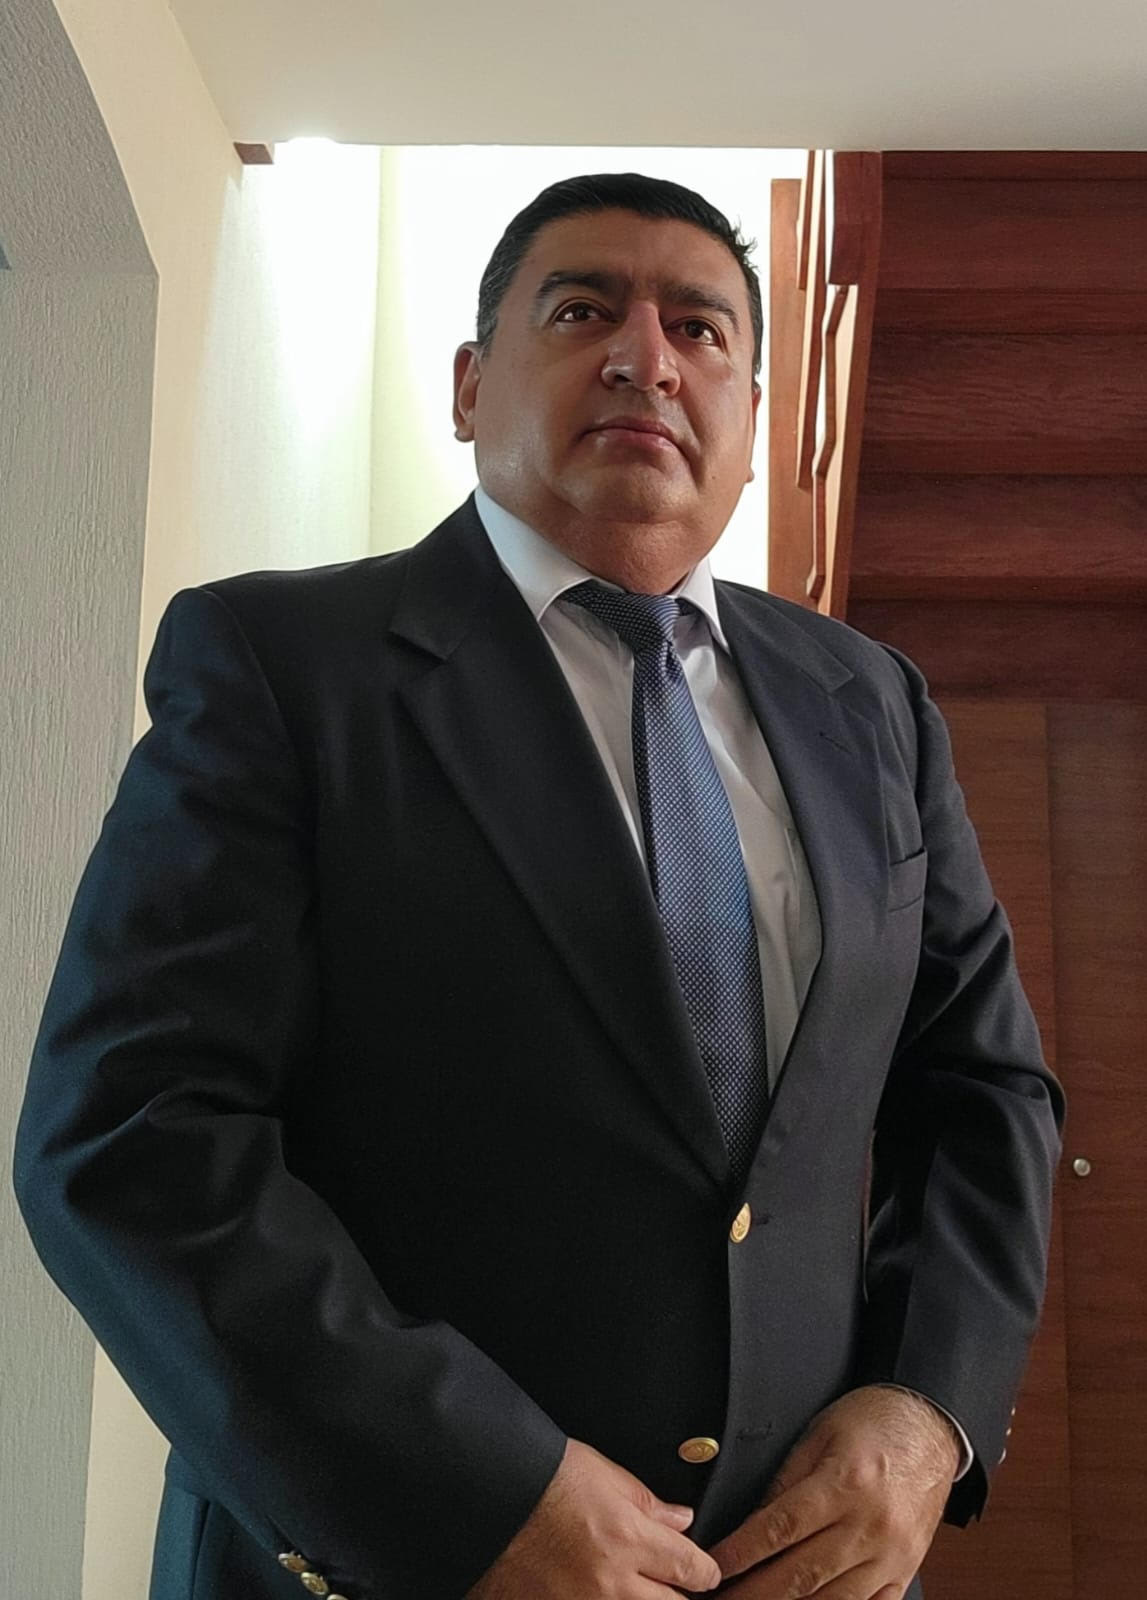
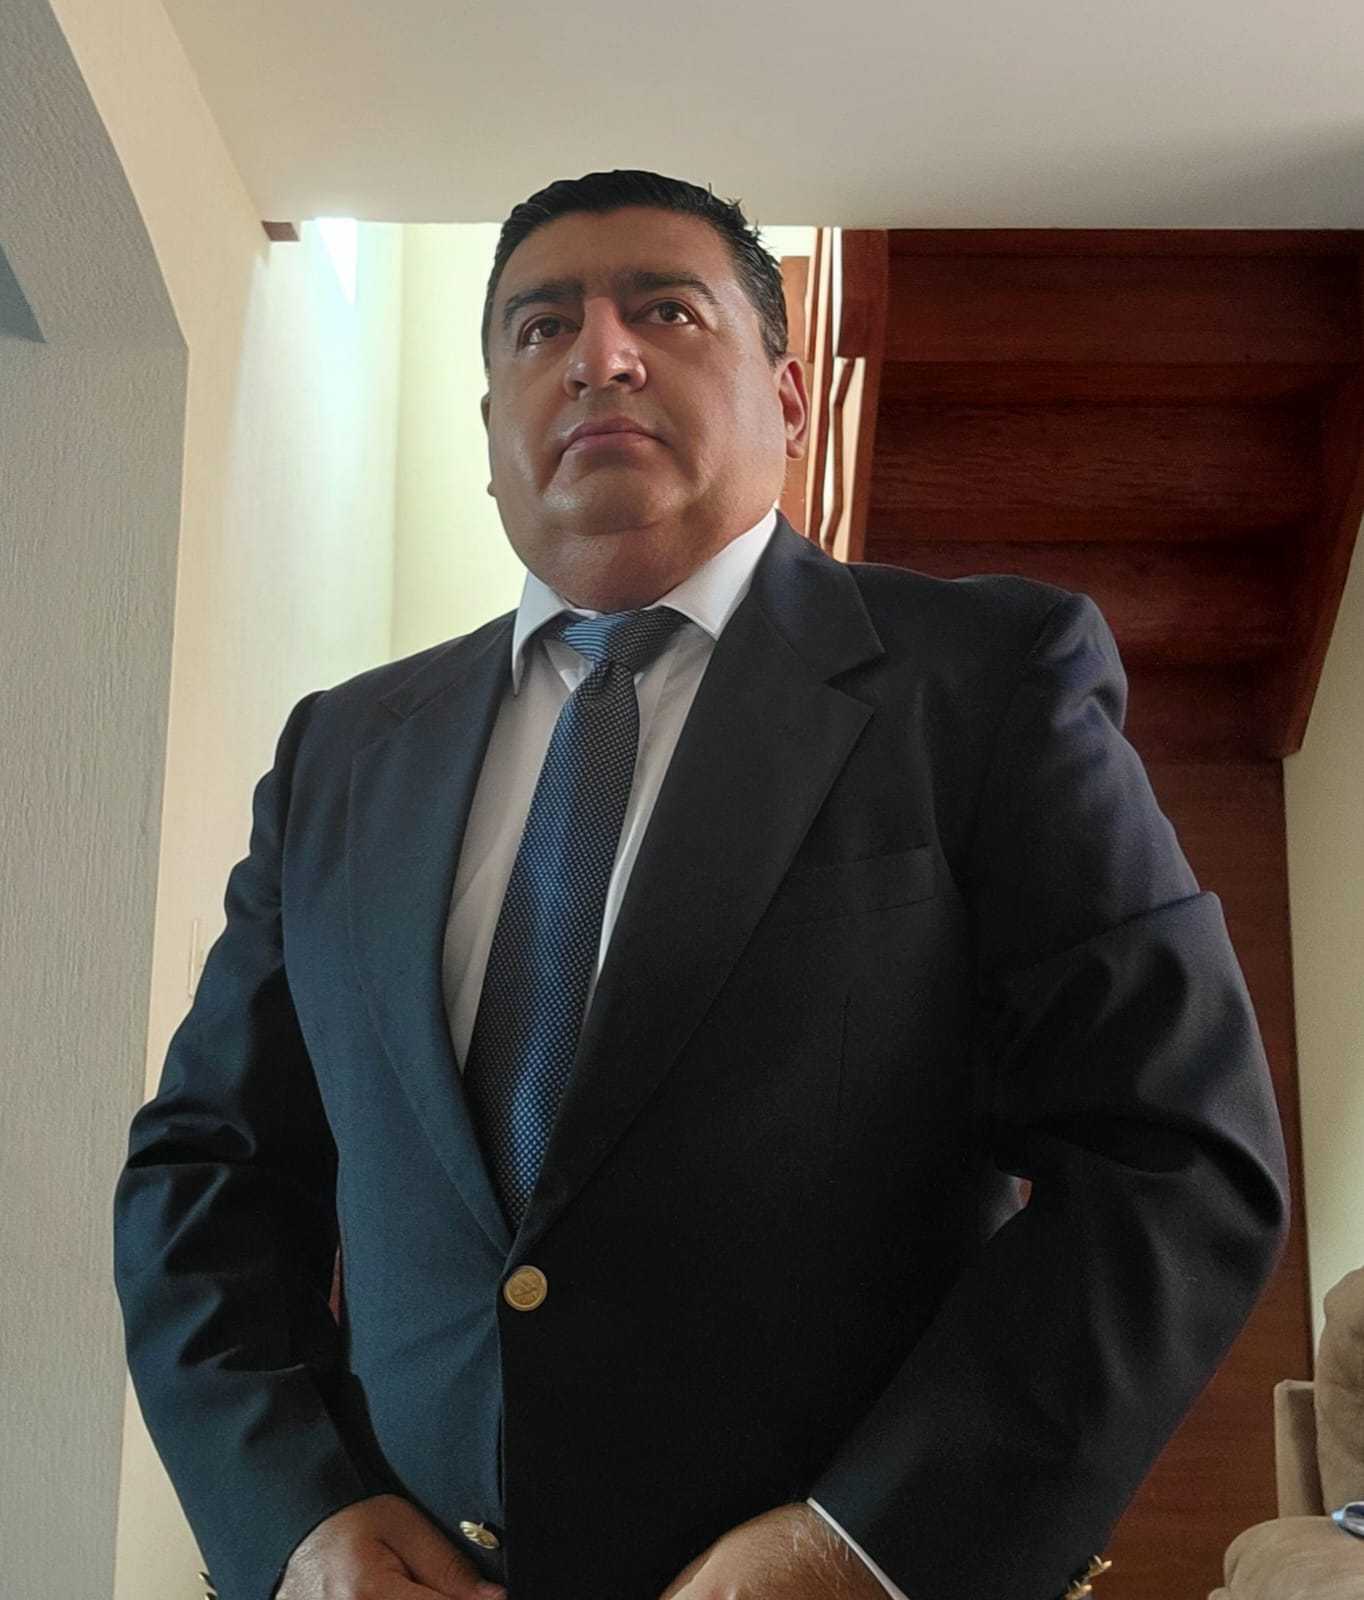
FINAL CHANGES.

diff --git a/src/components/layout/Footer.tsx b/src/components/layout/Footer.tsx
@@ -1,199 +1,40 @@
 "use client";
 
-import React, { useState } from 'react';
+import React from 'react';
 import Link from 'next/link';
-import { FaPhone, FaEnvelope, FaMapMarkerAlt, FaLinkedin, FaFacebook, FaTwitter, FaArrowRight } from 'react-icons/fa';
-
-// Define the service options for the dropdown
-const serviceOptions = [
-    { value: "", label: "Seleccione un servicio" },
-    { value: "auditoria-financiera", label: "Auditoría Financiera" },
-    { value: "auditoria-fiscal", label: "Auditoría Fiscal" },
-    { value: "auditoria-forense", label: "Auditoría Forense" },
-    { value: "auditoria-lav", label: "Auditoría para Cumplimiento de LAV" },
-    { value: "precios-transferencia", label: "Estudios de Precios de Transferencia" },
-    { value: "consultoria", label: "Asesoría y Consultoría Empresarial" },
-    { value: "outsourcing", label: "Outsourcing Contable" },
-    { value: "otros", label: "Otros Servicios" }
-];
-
-// Define contact reasons
-const contactReasons = [
-    { value: "", label: "Seleccione un motivo" },
-    { value: "cotizacion", label: "Solicitar Cotización" },
-    { value: "informacion", label: "Información General" },
-    { value: "reunion", label: "Programar Reunión" },
-    { value: "consulta", label: "Consulta Técnica" },
-    { value: "otro", label: "Otro Motivo" }
-];
+import { FaPhone, FaEnvelope, FaMapMarkerAlt, FaArrowRight } from 'react-icons/fa';
 
 const Footer: React.FC = () => {
-    const [email, setEmail] = useState('');
-    const [name, setName] = useState('');
-    const [phone, setPhone] = useState('');
-    const [service, setService] = useState('');
-    const [contactReason, setContactReason] = useState('');
-    const [message, setMessage] = useState('');
-    const [formSubmitted, setFormSubmitted] = useState(false);
-    const [isSubmitting, setIsSubmitting] = useState(false);
-    const [submitError, setSubmitError] = useState('');
-
-    const handleSubmit = async (e: React.FormEvent) => {
-        e.preventDefault();
-        setIsSubmitting(true);
-        setSubmitError('');
-
-        try {
-            const response = await fetch('/api/contact', {
-                method: 'POST',
-                headers: {
-                    'Content-Type': 'application/json',
-                },
-                body: JSON.stringify({
-                    name,
-                    email,
-                    phone,
-                    service,
-                    contactReason,
-                    message,
-                }),
-            });
-
-            if (response.ok) {
-                setFormSubmitted(true);
-                // Reset form after successful submission
-                setName('');
-                setEmail('');
-                setPhone('');
-                setService('');
-                setContactReason('');
-                setMessage('');
-
-                // Reset submission status after 5 seconds
-                setTimeout(() => {
-                    setFormSubmitted(false);
-                }, 5000);
-            } else {
-                const errorData = await response.json();
-                setSubmitError(errorData.error || 'Error al enviar el formulario');
-            }
-        } catch {
-            setSubmitError('Error de conexión. Por favor, intente nuevamente.');
-        } finally {
-            setIsSubmitting(false);
-        }
-    };
 
     return (
         <footer className="w-full">
             {/* Top Section - Contact Form */}
             <div id="contact" className="bg-gradient-to-r from-gray-800 to-gray-900 text-white py-12">
                 <div className="container mx-auto px-4">
-                    <div className="flex flex-col md:flex-row md:items-start">
-                        <div className="md:w-1/2 mb-8 md:mb-0 pr-0 md:pr-8">
-                            <h2 className="text-3xl font-bold mb-4">Contáctenos ahora</h2>
-                            <p className="text-gray-300 mb-4">
-                                Complete el formulario para solicitar una cotización o programar una consulta con nuestros expertos.
-                            </p>
-                            <ul className="space-y-3 mt-6">
-                                <li className="flex items-center">
-                                    <FaPhone className="text-gray-400 mr-3" size={16} />
-                                    <span className="text-gray-300">2263-3115 / 2263-3263</span>
-                                </li>
-                                <li className="flex items-center">
-                                    <FaEnvelope className="text-gray-400 mr-3" size={16} />
-                                    <a href="mailto:info@acp-audicon.com" className="text-gray-300 hover:text-white">
-                                        info@acp-audicon.com
-                                    </a>
-                                </li>
-                            </ul>
+                    <div className="flex flex-col items-center text-center">
+                        <h2 className="text-3xl font-bold mb-4">Contáctenos ahora</h2>
+                        <p className="text-gray-300 mb-6 max-w-2xl">
+                            Complete el formulario para solicitar una cotización o programar una consulta con nuestros expertos.
+                        </p>
+                        <div className="space-y-3 mb-8">
+                            <div className="flex items-center justify-center">
+                                <FaPhone className="text-gray-400 mr-3" size={16} />
+                                <span className="text-gray-300">2263-3115 / 2263-3263</span>
+                            </div>
+                            <div className="flex items-center justify-center">
+                                <FaEnvelope className="text-gray-400 mr-3" size={16} />
+                                <a href="mailto:info@acp-audicon.com" className="text-gray-300 hover:text-white">
+                                    info@acp-audicon.com
+                                </a>
+                            </div>
                         </div>
-
-                        <div className="md:w-1/2">
-                            {formSubmitted ? (
-                                <div className="bg-green-600 text-white p-4 rounded">
-                                    ¡Gracias por contactarnos! Hemos recibido su mensaje y nos comunicaremos con usted pronto.
-                                </div>
-                            ) : (
-                                <>
-                                    {submitError && (
-                                        <div className="bg-red-600 text-white p-4 rounded mb-4">
-                                            {submitError}
-                                        </div>
-                                    )}
-                                <form onSubmit={handleSubmit} className="flex flex-col gap-4">
-                                    <div className="flex flex-col md:flex-row gap-4">
-                                        <input
-                                            type="text"
-                                            placeholder="Nombre completo *"
-                                            className="md:w-1/2 p-3 bg-gray-700 text-white rounded border border-gray-600 focus:outline-none focus:border-white"
-                                            value={name}
-                                            onChange={(e) => setName(e.target.value)}
-                                            required
-                                        />
-                                        <input
-                                            type="email"
-                                            placeholder="Correo electrónico *"
-                                            className="md:w-1/2 p-3 bg-gray-700 text-white rounded border border-gray-600 focus:outline-none focus:border-white"
-                                            value={email}
-                                            onChange={(e) => setEmail(e.target.value)}
-                                            required
-                                        />
-                                    </div>
-                                    <div className="flex flex-col md:flex-row gap-4">
-                                        <input
-                                            type="tel"
-                                            placeholder="Teléfono"
-                                            className="md:w-1/2 p-3 bg-gray-700 text-white rounded border border-gray-600 focus:outline-none focus:border-white"
-                                            value={phone}
-                                            onChange={(e) => setPhone(e.target.value)}
-                                        />
-                                        <select
-                                            className="md:w-1/2 p-3 bg-gray-700 text-white rounded border border-gray-600 focus:outline-none focus:border-white"
-                                            value={contactReason}
-                                            onChange={(e) => setContactReason(e.target.value)}
-                                            required
-                                        >
-                                            {contactReasons.map((reason) => (
-                                                <option key={reason.value} value={reason.value}>
-                                                    {reason.label}
-                                                </option>
-                                            ))}
-                                        </select>
-                                    </div>
-                                    <select
-                                        className="w-full p-3 bg-gray-700 text-white rounded border border-gray-600 focus:outline-none focus:border-white"
-                                        value={service}
-                                        onChange={(e) => setService(e.target.value)}
-                                        required
-                                    >
-                                        {serviceOptions.map((option) => (
-                                            <option key={option.value} value={option.value}>
-                                                {option.label}
-                                            </option>
-                                        ))}
-                                    </select>
-                                    <textarea
-                                        placeholder="Mensaje (opcional)"
-                                        className="w-full p-3 bg-gray-700 text-white rounded border border-gray-600 focus:outline-none focus:border-white"
-                                        rows={3}
-                                        value={message}
-                                        onChange={(e) => setMessage(e.target.value)}
-                                    ></textarea>
-                                    <div className="w-full flex items-center">
-                                        <button
-                                            type="submit"
-                                            disabled={isSubmitting}
-                                            className="flex items-center justify-center px-6 py-3 bg-white hover:bg-gray-200 disabled:bg-gray-400 disabled:cursor-not-allowed text-gray-900 font-medium rounded transition-colors duration-300"
-                                        >
-                                            {isSubmitting ? 'Enviando...' : 'Contactar'}
-                                            {!isSubmitting && <FaArrowRight className="ml-2" />}
-                                        </button>
-                                    </div>
-                                </form>
-                                </>
-                            )}
-                        </div>
+                        <a 
+                            href="mailto:info@acp-audicon.com"
+                            className="flex items-center justify-center px-6 py-3 bg-white hover:bg-gray-200 text-gray-900 font-medium rounded transition-colors duration-300"
+                        >
+                            Contactar
+                            <FaArrowRight className="ml-2" />
+                        </a>
                     </div>
                 </div>
             </div>
@@ -271,18 +112,7 @@ const Footer: React.FC = () => {
                                         Noticias y Publicaciones
                                     </Link>
                                 </li>
-                                <li>
-                                    <span className="text-gray-400 cursor-not-allowed">
-                                        Preguntas Frecuentes
-                                    </span>
-                                    <span className="text-xs text-gray-400 block">(Próximamente)</span>
-                                </li>
-                                <li>
-                                    <span className="text-gray-400 cursor-not-allowed">
-                                        Glosario
-                                    </span>
-                                    <span className="text-xs text-gray-400 block">(Próximamente)</span>
-                                </li>
+
                             </ul>
                         </div>
 
@@ -333,17 +163,7 @@ const Footer: React.FC = () => {
                                 &copy; {new Date().getFullYear()} CAÑAS AUDITORES Y CONSULTORES, S.A. DE C.V. Todos los derechos reservados.
                             </p>
                         </div>
-                        <div className="flex space-x-4">
-                            <a href="#" className="text-gray-400 hover:text-white transition-colors">
-                                <FaLinkedin size={20} />
-                            </a>
-                            <a href="#" className="text-gray-400 hover:text-white transition-colors">
-                                <FaFacebook size={20} />
-                            </a>
-                            <a href="#" className="text-gray-400 hover:text-white transition-colors">
-                                <FaTwitter size={20} />
-                            </a>
-                        </div>
+
                     </div>
                 </div>
             </div>

diff --git a/src/app/api/contact/route.ts b/src/app/api/contact/route.ts
@@ -22,24 +22,33 @@ export async function POST(request: NextRequest) {
       hasPassword: !!process.env.SMTP_PASS
     });
 
-    // Create transporter - Using cPanel SMTP configuration (Secure SSL/TLS)
-    const smtpPort = parseInt(process.env.SMTP_PORT || '465');
+    // Check if environment variables are missing
+    if (!process.env.SMTP_HOST || !process.env.SMTP_USER || !process.env.SMTP_PASS) {
+      console.error('Missing required environment variables');
+      return NextResponse.json(
+        { error: 'Configuración de email no disponible' },
+        { status: 500 }
+      );
+    }
+
+    // Create transporter - Using cPanel SMTP configuration
+    const smtpPort = parseInt(process.env.SMTP_PORT || '587');
     const transporter = nodemailer.createTransport({
       host: process.env.SMTP_HOST || 'mail.acp-audicon.com',
       port: smtpPort,
-      secure: true, // true for 465 (SSL), false for other ports
+      secure: smtpPort === 465, // true for 465 (SSL), false for 587 (STARTTLS)
       auth: {
         user: process.env.SMTP_USER,
         pass: process.env.SMTP_PASS,
       },
-      // SSL/TLS configuration for cPanel
+      // TLS configuration for cPanel
       tls: {
-        rejectUnauthorized: false, // Allow self-signed certificates common in cPanel
+        rejectUnauthorized: false, // Allow self-signed certificates
       },
-      // Connection timeouts
-      connectionTimeout: 60000, // 1 minute
-      greetingTimeout: 30000,
-      socketTimeout: 60000
+      // Shorter timeouts to fail faster
+      connectionTimeout: 30000, // 30 seconds
+      greetingTimeout: 10000,   // 10 seconds
+      socketTimeout: 30000      // 30 seconds
     });
 
     // Get service label for display

diff --git a/src/components/ExpertsSection.tsx b/src/components/ExpertsSection.tsx
@@ -60,7 +60,7 @@ const ExpertsSection: React.FC = () => {
                 "Licenciado en Contaduría Pública con especialización en Auditoría Financiera y Fiscal de la Universidad Tecnológica de El Salvador, Contador y Auditor autorizado por el Consejo de Vigilancia de la Contaduría Pública y Auditoria, especialista certificado en la Ley de Lavado de Dinero y Activos.",
                 "Profesional que cuenta con más de 30 años de experiencia en materia de contabilidad, impuestos, auditoría financiera y auditoría fiscal."
             ],
-            imageUrl: "/images/team/dore-perez.jpeg"
+            imageUrl: "/images/team/dore-perez.jpg"
         },
         {
             name: "ENRIQUE CAÑAS JIMENEZ",
@@ -86,13 +86,6 @@ const ExpertsSection: React.FC = () => {
                     ))}
                 </div>
 
-                <div className="text-center mt-12">
-                    <Link href="/quienes-somos">
-                        <button className="bg-gray-900 hover:bg-gray-800 text-white px-8 py-3 rounded-none transition duration-300 font-medium">
-                            Conocer Más Sobre Nuestro Equipo
-                        </button>
-                    </Link>
-                </div>
             </div>
         </section>
     );

diff --git a/src/components/Hero.tsx b/src/components/Hero.tsx
@@ -15,14 +15,14 @@ const Hero = () => {
             ></div>
 
             {/* Dark overlay - positioned above the image but below the content */}
-            <div className="absolute inset-0 bg-black opacity-65 z-10"></div>
+            <div className="absolute inset-0 bg-black opacity-40 z-10"></div>
 
             {/* Content - highest z-index to appear above both image and overlay */}
             <div className="relative z-20 flex flex-col justify-center h-full px-6 md:px-12 lg:px-24">
-                <h1 className="text-4xl md:text-4xl font-bold text-white mb-4">
+                <h1 className="text-4xl md:text-4xl font-bold text-white mb-4" style={{textShadow: '2px 2px 4px rgba(0,0,0,0.8)'}}>
                     AUDITORIA Y CONSULTORIA EMPRESARIAL<br />
                 </h1>
-                <p className="text-xl text-gray-200 mb-8 max-w-xl">
+                <p className="text-xl text-gray-200 mb-8 max-w-xl" style={{textShadow: '1px 1px 3px rgba(0,0,0,0.8)'}}>
                     Servicios de alta calidad con ética, independencia y confidencialidad
                 </p>
                 <div>
